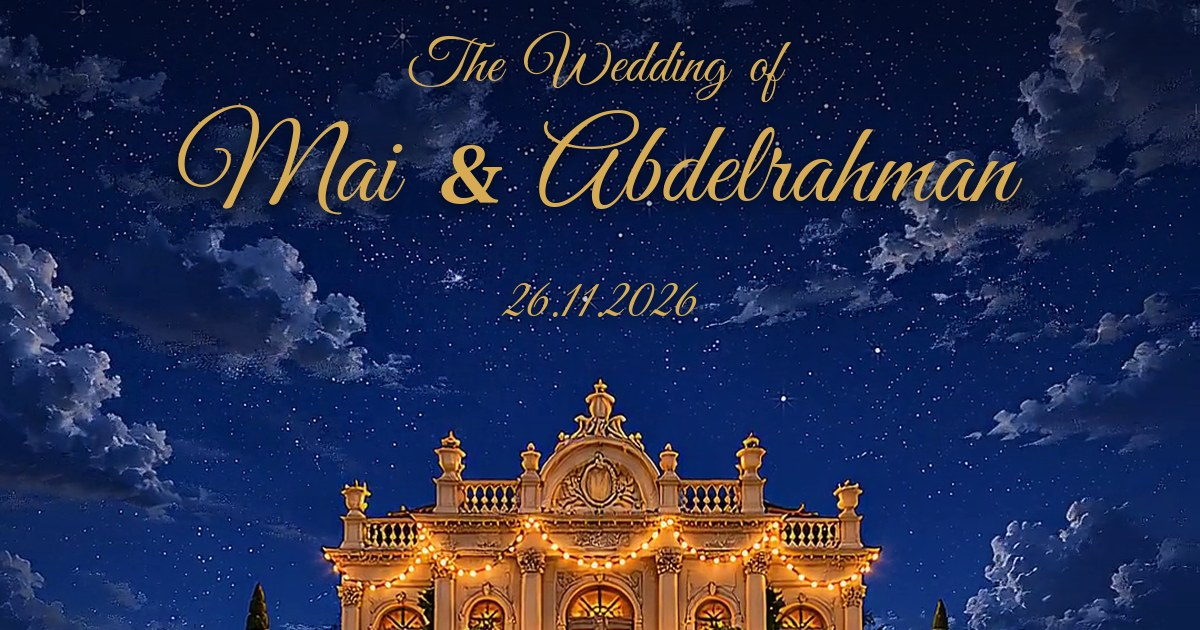
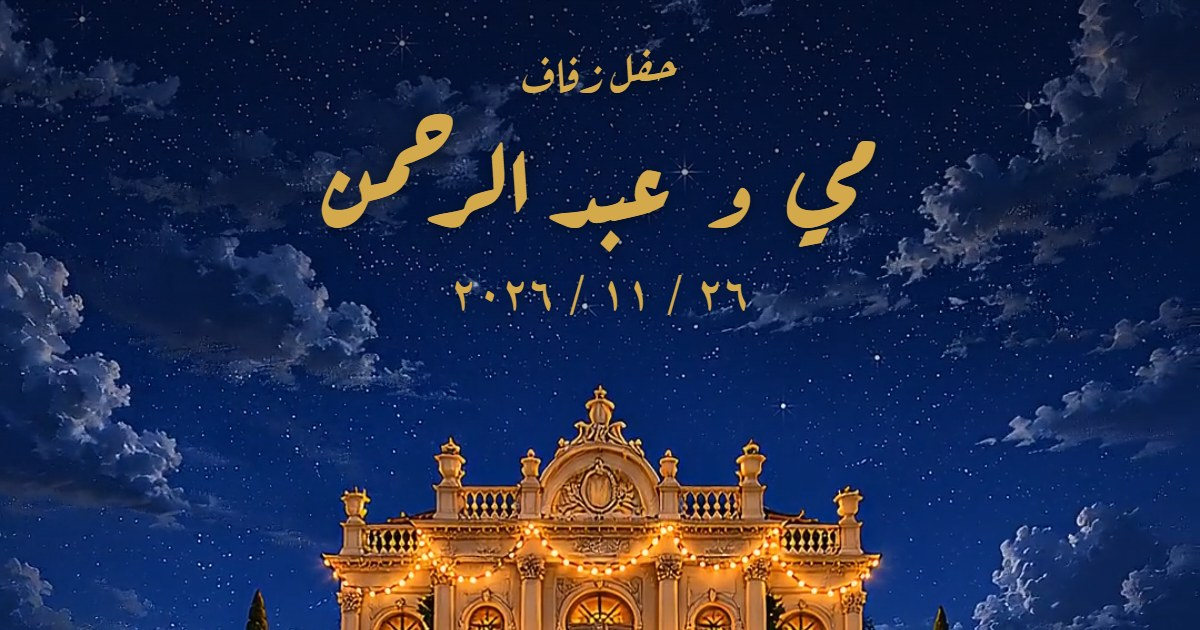
دعوة مي وعبد الرحمن (C7ZgURf) بقت عربي بالكامل بطلب المالك: الأسامي والخط المزخرف بخط الرقعة (Aref Ruqaa) الدهبي، العناوين El Messiri، الكلام Amiri، والأرقام عربي (التاريخ، العدّاد، البرنامج) — حكايتنا، احفظوا الموعد، باقي على ليلة العمر، برنامج الحفل، مكان الحفل (سي ستار — المكس، الإسكندرية)، تأكيد
Claude-Session: https://claude.ai/code/session_01WWr143PkEpXc8CSVh9AHnN

diff --git a/custom-invitations/C7ZgURf.html b/custom-invitations/C7ZgURf.html
@@ -1,14 +1,14 @@
 <!DOCTYPE html>
-<html lang="en" dir="ltr">
+<html lang="ar" dir="rtl">
 <head>
 <meta charset="utf-8">
 <meta name="viewport" content="width=device-width, initial-scale=1, viewport-fit=cover">
 <meta name="theme-color" content="#071733">
-<title>The Wedding of Mai &amp; Abdelrahman</title>
-<meta name="description" content="Thursday, 26 November 2026 · 7:30 PM · Sea Star, Alexandria">
+<title>زفاف مي و عبد الرحمن</title>
+<meta name="description" content="الخميس ٢٦ نوفمبر ٢٠٢٦ · السابعة والنصف مساءً · سي ستار — المكس، الإسكندرية">
 <link rel="preconnect" href="https://fonts.googleapis.com">
 <link rel="preconnect" href="https://fonts.gstatic.com" crossorigin>
-<link rel="stylesheet" href="https://fonts.googleapis.com/css2?family=Amiri&family=Cormorant+Garamond:ital,wght@0,400;0,500;0,600;1,400;1,500&family=Gelasio:ital,wght@1,500&family=Great+Vibes&family=Marcellus&family=Tajawal:wght@400;500&display=swap">
+<link rel="stylesheet" href="https://fonts.googleapis.com/css2?family=Amiri:wght@400;700&family=Aref+Ruqaa:wght@400;700&family=El+Messiri:wght@400;500;600;700&family=Tajawal:wght@400;500;700&display=swap">
 <link rel="preload" as="image" href="assets/open.jpg">
 <style>
 /* ============================================================
@@ -17,8 +17,9 @@
    ============================================================ */
 :root{
   --navy:#071733; --ink:#172957; --cream:#F5ECDD;
-  --serif:'Cormorant Garamond',Georgia,'Times New Roman',serif;
-  --script:'Great Vibes','Brush Script MT',cursive;
+  --serif:'Amiri','Times New Roman',serif;
+  --script:'Aref Ruqaa','Amiri',serif;
+  --head:'El Messiri','Amiri',sans-serif;
   --col:560px;
 }
 *{box-sizing:border-box}
@@ -300,6 +301,78 @@ button,input,textarea{font:inherit;color:inherit}
 @media (prefers-reduced-motion:reduce){
   *,*::before,*::after{animation-duration:.01ms!important;animation-iteration-count:1!important;transition-duration:.01ms!important}
 }
+
+/* ============================================================
+   النسخة العربية (بطلب المالك 2026-11-02): كل الكلام عربي.
+   - الأسامي والخط المزخرف: Aref Ruqaa (دهبي)
+   - العناوين: El Messiri — من غير تباعد حروف (التباعد بيقطّع الحروف العربي)
+   - الكلام: Amiri — ومفيش مائل (الخط العربي المائل شكله مكسور)
+   ============================================================ */
+body,body *{font-style:normal!important}
+.cap{font-family:var(--head);letter-spacing:0!important;text-indent:0!important}
+.tap{font-family:var(--head);font-size:17px;letter-spacing:0;text-indent:0}
+.ht{font-family:var(--script);line-height:1.5}
+.ht-of{font-size:clamp(30px,10cqw,72px);word-spacing:0}
+.ht-names{font-size:clamp(36px,15.5vw,112px);font-size:clamp(36px,15.5cqw,112px)}
+.ht-names .amp{margin:0 .28em;font-family:var(--script);font-size:.8em;transform:translateY(-.06em)}
+.ht-date{font-family:var(--serif);font-weight:700;letter-spacing:.04em;text-indent:0;font-size:clamp(22px,7cqw,52px)}
+.st-cap{font-size:21px;font-weight:600}
+.st-script{font-family:var(--script);font-size:clamp(34px,11cqw,50px);line-height:1.5;padding:2px 20px 6px}
+.st-body{font-size:20px;line-height:1.85;max-width:min(90%,330px)}
+.dt-cap{font-size:19px;font-weight:600}
+.dt-day{font-family:var(--serif);font-weight:700;font-size:100px;line-height:1.15}
+.dt-month{font-size:32px;font-weight:600}
+.dt-year{font-family:var(--serif);font-weight:700;font-size:34px;letter-spacing:.06em!important}
+.dt-when{font-size:18px;font-weight:600}
+.dt-when em{margin:0 .45em}
+.dt-msg{font-size:19px;line-height:1.75;letter-spacing:0;max-width:min(88%,260px)}
+.cd-cap{font-size:20px;font-weight:600}
+.cd-until{font-size:23px;line-height:1.5}
+.cd-ido{font-family:var(--script);font-size:54px;line-height:1.5;padding:0 20px 4px}
+.cd-num{font-family:var(--serif);font-weight:700;font-size:50px;line-height:1.1}
+.cd-lab{font-family:var(--head);font-size:15px;letter-spacing:0;text-indent:0;margin-top:6px}
+.cd-msg{font-size:18px;line-height:1.75}
+.tl-cap{font-size:21px;font-weight:600}
+.row .t{padding:4px 0 4px 30px;font-family:var(--head);font-size:17px;letter-spacing:0;font-weight:600}
+.row .e{padding-left:0;padding-right:30px}
+.row .e span{max-width:175px;font-family:var(--serif);font-size:21px;line-height:1.45;font-weight:700}
+.tl-msg{font-size:18px;line-height:1.75}
+.lc-cap{font-size:21px;font-weight:600}
+.lc-venue{font-family:var(--script);font-size:46px;line-height:1.45;letter-spacing:0;text-indent:0;font-weight:700}
+.lc-city{font-family:var(--head);font-size:21px;letter-spacing:0}
+.lc-addr{font-size:18px;line-height:1.75}
+.lc-btn{font-family:var(--head);font-size:17px;letter-spacing:0;text-indent:0;font-weight:600}
+.lc-msg{max-width:min(92%,330px);font-size:18px;line-height:1.75}
+.rs-h{font-family:var(--head);font-weight:600;font-size:32px}
+.rs-lab{letter-spacing:0;font-size:16px;font-weight:500;color:#6f6356}
+.rs-opt{font-size:16px;letter-spacing:0}
+.rs-send{font-size:17px;font-weight:700;letter-spacing:0}
+.rs-done h3{font-family:var(--head);letter-spacing:0;text-indent:0;font-size:24px}
+.rs-done p{font-size:19px}
+.ty-cap{font-size:22px}
+.ty-msg{font-size:22px;line-height:1.7}
+.ty-names{font-family:var(--script);font-size:44px;line-height:1.5;font-weight:700}
+.ty-date{font-family:var(--serif);font-weight:700;font-size:18px;letter-spacing:.08em!important}
+@media (max-width:390px){
+  .st-body{font-size:19px}
+  .dt-day{font-size:90px}
+  .dt-month{font-size:29px}
+  .cd-num{font-size:46px}
+  .cd-ido{font-size:50px}
+  .row .t{padding-right:0;padding-left:24px;font-size:16px}
+  .row .e{padding-left:0;padding-right:24px}
+  .row .e span{max-width:150px;font-size:19px}
+  .lc-venue{font-size:42px}
+  .ty-msg{font-size:21px}
+  .ty-names{font-size:40px}
+}
+@media (max-width:340px){
+  .dt-day{font-size:80px}
+  .row .t{padding-right:0;padding-left:16px;font-size:15px}
+  .row .e{padding-left:0;padding-right:16px}
+  .row .e span{font-size:17px}
+  .lc-venue{font-size:38px}
+}
 /* معاينة ثابتة للصور (?static) */
 .static .rv,.static .rw,.static .ht{opacity:1;animation:none!important}
 </style>
@@ -307,11 +380,11 @@ button,input,textarea{font:inherit;color:inherit}
 <body class="locked">
 
 <!-- ===== الغلاف: صورة الظرف، والضغط عليها يشغّل فيديو الفتح ===== -->
-<div class="intro" id="intro" role="button" tabindex="0" aria-label="Tap to open the invitation">
+<div class="intro" id="intro" role="button" tabindex="0" aria-label="اضغط لفتح الدعوة">
   <div class="intro-stage">
     <img src="assets/open.jpg" alt="">
     <video id="openVid" src="assets/open.mp4" muted playsinline webkit-playsinline preload="auto"></video>
-    <button class="tap" id="tap" type="button" tabindex="-1">TAP TO OPEN</button>
+    <button class="tap" id="tap" type="button" tabindex="-1">اضغط لفتح الدعوة</button>
   </div>
 </div>
 
@@ -320,18 +393,18 @@ button,input,textarea{font:inherit;color:inherit}
   <!-- القصر: فيديو بيتحول من نهار لليل + الأسماء -->
   <header class="hero">
     <video id="heroVid" src="assets/hero.mp4" muted playsinline webkit-playsinline preload="auto"></video>
-    <p class="ht ht-of">The Wedding of</p>
-    <h1 class="ht ht-names"><span>Mai</span><span class="amp">&amp;</span><span>Abdelrahman</span></h1>
-    <p class="ht ht-date">26.11.2026</p>
+    <p class="ht ht-of">حفل زفاف</p>
+    <h1 class="ht ht-names"><span>مي</span><span class="amp">و</span><span>عبد الرحمن</span></h1>
+    <p class="ht ht-date" dir="ltr">٢٦ / ١١ / ٢٠٢٦</p>
   </header>
 
   <!-- قصتنا -->
   <section class="sec navy story">
-    <div class="g g1 rv" style="--d:.1s"><span class="cap st-cap">OUR STORY</span></div>
+    <div class="g g1 rv" style="--d:.1s"><span class="cap st-cap">حكايتنا</span></div>
     <div class="orn st-orn"><span><i></i><b></b><i></i></span></div>
-    <div class="g g2 rv pop" style="--d:.35s"><span class="st-script">Written in the Stars</span></div>
-    <div class="g g3 rv" style="--d:.7s"><span class="st-body">Some stories begin with a moment.</span></div>
-    <div class="g g3 rv" style="--d:.9s"><span class="st-body">Ours began with a feeling that became forever.</span></div>
+    <div class="g g2 rv pop" style="--d:.35s"><span class="st-script">كُتبت في النجوم</span></div>
+    <div class="g g3 rv" style="--d:.7s"><span class="st-body">بعضُ الحكايات تبدأ بلحظة،</span></div>
+    <div class="g g3 rv" style="--d:.9s"><span class="st-body">وحكايتنا بدأت بشعورٍ صار عمرًا.</span></div>
     <div class="orn st-bot"><span><i></i><b></b><i></i></span></div>
   </section>
 
@@ -345,14 +418,14 @@ button,input,textarea{font:inherit;color:inherit}
       <i class="orb" style="right:20%;top:78%;--s:6.6s;--dl:.6s"></i>
     </div>
     <div class="inner">
-      <div class="g g1 rv" style="--d:.1s"><span class="cap dt-cap">SAVE THE DATE</span></div>
+      <div class="g g1 rv" style="--d:.1s"><span class="cap dt-cap">احفظوا الموعد</span></div>
       <div class="orn dt-orn"><span><i></i><b></b><i></i></span></div>
-      <div class="g g2 rv pop" style="--d:.3s"><span class="dt-day">26<i class="shim"></i></span></div>
-      <div class="g g3 rv" style="--d:.55s"><span class="cap dt-month">NOVEMBER</span></div>
+      <div class="g g2 rv pop" style="--d:.3s"><span class="dt-day">٢٦<i class="shim"></i></span></div>
+      <div class="g g3 rv" style="--d:.55s"><span class="cap dt-month">نوفمبر</span></div>
       <div class="dt-plus"><span></span></div>
-      <div class="g g4 rv" style="--d:.75s"><span class="cap dt-year">2026</span></div>
-      <div class="g g5 rv" style="--d:.9s"><span class="cap dt-when">THURSDAY<em>·</em>7:30 PM</span></div>
-      <div class="g g6 rv" style="--d:1.05s"><span class="dt-msg">A beautiful day to begin forever.</span></div>
+      <div class="g g4 rv" style="--d:.75s"><span class="cap dt-year">٢٠٢٦</span></div>
+      <div class="g g5 rv" style="--d:.9s"><span class="cap dt-when">الخميس<em>·</em>٧:٣٠ مساءً</span></div>
+      <div class="g g6 rv" style="--d:1.05s"><span class="dt-msg">يومٌ جميل نبدأ فيه العمر معًا.</span></div>
       <div class="orn dt-bot"><span><i></i><b></b><i></i></span></div>
     </div>
   </section>
@@ -368,17 +441,17 @@ button,input,textarea{font:inherit;color:inherit}
       <i class="pt" style="left:88%;--s:8.8s;--dl:2.9s"></i>
     </div>
     <div class="inner">
-      <div class="g g1 rv" style="--d:.1s"><span class="cap cd-cap">COUNTDOWN</span></div>
+      <div class="g g1 rv" style="--d:.1s"><span class="cap cd-cap">العدّ التنازلي</span></div>
       <div class="orn beat cd-orn"><span><i></i><b></b><i></i></span></div>
-      <div class="g g2 rv" style="--d:.3s"><span class="cd-until">Until We Say</span></div>
-      <div class="g g3 rv pop" style="--d:.45s"><span class="cd-ido">I DO</span></div>
+      <div class="g g2 rv" style="--d:.3s"><span class="cd-until">باقي على</span></div>
+      <div class="g g3 rv pop" style="--d:.45s"><span class="cd-ido">ليلة العمر</span></div>
       <div class="cd-grid">
-        <div class="cd-card rv" style="--d:.6s;--gd:0s"><span class="cd-num" data-u="d">00</span><span class="cd-lab">DAYS</span></div>
-        <div class="cd-card rv" style="--d:.72s;--gd:.4s"><span class="cd-num" data-u="h">00</span><span class="cd-lab">HOURS</span></div>
-        <div class="cd-card rv" style="--d:.84s;--gd:.8s"><span class="cd-num" data-u="m">00</span><span class="cd-lab">MINUTES</span></div>
-        <div class="cd-card rv" style="--d:.96s;--gd:1.2s"><span class="cd-num" data-u="s">00</span><span class="cd-lab">SECONDS</span></div>
+        <div class="cd-card rv" style="--d:.6s;--gd:0s"><span class="cd-num" data-u="d">٠٠</span><span class="cd-lab">يوم</span></div>
+        <div class="cd-card rv" style="--d:.72s;--gd:.4s"><span class="cd-num" data-u="h">٠٠</span><span class="cd-lab">ساعة</span></div>
+        <div class="cd-card rv" style="--d:.84s;--gd:.8s"><span class="cd-num" data-u="m">٠٠</span><span class="cd-lab">دقيقة</span></div>
+        <div class="cd-card rv" style="--d:.96s;--gd:1.2s"><span class="cd-num" data-u="s">٠٠</span><span class="cd-lab">ثانية</span></div>
       </div>
-      <div class="g g4 rv" style="--d:1.05s"><span class="cd-msg">Every second brings us closer to forever.</span></div>
+      <div class="g g4 rv" style="--d:1.05s"><span class="cd-msg">كل ثانية بتقرّبنا من أحلى ليلة.</span></div>
       <div class="orn beat cd-bot"><span><i></i><b></b><i></i></span></div>
     </div>
   </section>
@@ -386,56 +459,56 @@ button,input,textarea{font:inherit;color:inherit}
   <!-- برنامج الفرح -->
   <section class="sec cream tl">
     <div class="inner">
-      <div class="g g1 rv" style="--d:.1s"><span class="cap tl-cap">WEDDING TIMELINE</span></div>
+      <div class="g g1 rv" style="--d:.1s"><span class="cap tl-cap">برنامج الحفل</span></div>
       <div class="orn tl-orn"><span><i></i><b></b><i></i></span></div>
       <div class="track" id="track">
         <div class="tl-line"></div>
         <div class="tl-cap-pt s"></div>
         <div class="tl-cap-pt e"></div>
         <div class="star" id="star" aria-hidden="true"><svg viewBox="0 0 24 24"><path d="M12 1.8 14.6 8.2 21.5 8.8 16.2 13.2 17.9 20 12 16.4 6.1 20 7.8 13.2 2.5 8.8 9.4 8.2Z" fill="#F6D98F" stroke="#B78431" stroke-width="1.2" stroke-linejoin="round"/><circle cx="12" cy="11.2" r="2.1" fill="#FFF8DF"/></svg></div>
-        <div class="row rw"><span class="t">7:30 PM</span><span class="p"></span><span class="e"><span>Guest Arrival</span></span></div>
-        <div class="row rw"><span class="t">8:00 PM</span><span class="p"></span><span class="e"><span>Bride Entrance</span></span></div>
-        <div class="row rw"><span class="t">9:00 PM</span><span class="p"></span><span class="e"><span>Dinner</span></span></div>
-        <div class="row rw"><span class="t">10:30 PM</span><span class="p"></span><span class="e"><span>First Dance</span></span></div>
-        <div class="row rw"><span class="t">11:30 PM</span><span class="p"></span><span class="e"><span>Let the Celebration Begin</span></span></div>
+        <div class="row rw"><span class="t">٧:٣٠ مساءً</span><span class="p"></span><span class="e"><span>استقبال الضيوف</span></span></div>
+        <div class="row rw"><span class="t">٨:٠٠ مساءً</span><span class="p"></span><span class="e"><span>دخلة العروسين</span></span></div>
+        <div class="row rw"><span class="t">٩:٠٠ مساءً</span><span class="p"></span><span class="e"><span>العشاء</span></span></div>
+        <div class="row rw"><span class="t">١٠:٣٠ مساءً</span><span class="p"></span><span class="e"><span>الرقصة الأولى</span></span></div>
+        <div class="row rw"><span class="t">١١:٣٠ مساءً</span><span class="p"></span><span class="e"><span>وتبدأ الاحتفالات</span></span></div>
       </div>
-      <div class="g g2 rv" style="--d:.2s"><span class="tl-msg">A night to remember, a story to treasure forever.</span></div>
+      <div class="g g2 rv" style="--d:.2s"><span class="tl-msg">ليلةٌ لا تُنسى، وحكايةٌ نحفظها العمر كله.</span></div>
     </div>
   </section>
 
   <!-- المكان -->
   <section class="sec navy loc">
     <div class="inner">
-      <div class="g g1 rv" style="--d:.1s"><span class="cap lc-cap">LOCATION</span></div>
+      <div class="g g1 rv" style="--d:.1s"><span class="cap lc-cap">مكان الحفل</span></div>
       <div class="orn lc-orn"><span><i></i><b></b><i></i></span></div>
-      <div class="g g2 rv" style="--d:.25s"><span class="lc-venue">SEA STAR</span></div>
-      <div class="g g3 rv" style="--d:.38s"><span class="lc-city">El Max, Alexandria</span></div>
+      <div class="g g2 rv" style="--d:.25s"><span class="lc-venue">سي ستار</span></div>
+      <div class="g g3 rv" style="--d:.38s"><span class="lc-city">المكس، الإسكندرية</span></div>
       <div class="orn flat dot lc-div"><span><i></i><b></b><i></i></span></div>
-      <div class="g g4 rv" style="--d:.52s"><span class="lc-addr">A beautiful place for our unforgettable night.</span></div>
-      <div class="g g5 rv pop" style="--d:.66s"><a class="lc-btn" href="https://maps.app.goo.gl/PqRU6BXrYPoHW2b18" target="_blank" rel="noopener noreferrer"><span>OPEN LOCATION</span></a></div>
-      <div class="g g6 rv" style="--d:.85s"><span class="lc-msg">We can’t wait to celebrate this beautiful night with you.</span></div>
+      <div class="g g4 rv" style="--d:.52s"><span class="lc-addr">مكانٌ جميل لليلتنا اللي مش هتتنسي.</span></div>
+      <div class="g g5 rv pop" style="--d:.66s"><a class="lc-btn" href="https://maps.app.goo.gl/PqRU6BXrYPoHW2b18" target="_blank" rel="noopener noreferrer"><span>افتح الموقع على الخريطة</span></a></div>
+      <div class="g g6 rv" style="--d:.85s"><span class="lc-msg">مستنيينكم تشاركونا فرحتنا في الليلة الحلوة دي.</span></div>
     </div>
   </section>
 
   <!-- تأكيد الحضور -->
   <section class="sec cream rsvp" id="rsvp">
-    <h2 class="rs-h rv" style="--d:.1s">RSVP</h2>
+    <h2 class="rs-h rv" style="--d:.1s">تأكيد الحضور</h2>
     <div class="rs-card rv" style="--d:.25s" id="rsCard">
       <form id="rsForm" novalidate>
-        <label class="rs-lab" for="rsName">YOUR NAME</label>
+        <label class="rs-lab" for="rsName">الاسم</label>
         <input class="rs-in" id="rsName" type="text" autocomplete="name" maxlength="80" dir="auto">
-        <div class="rs-lab rs-q">WILL YOU BE ATTENDING OUR DAY?</div>
-        <label class="rs-opt"><span>YES</span><input type="radio" name="att" value="yes" checked><i></i></label>
-        <label class="rs-opt"><span>NO</span><input type="radio" name="att" value="no"><i></i></label>
-        <label class="rs-lab rs-m" for="rsMsg">WRITE YOUR CONGRATULATIONS</label>
+        <div class="rs-lab rs-q">هتشاركونا فرحتنا؟</div>
+        <label class="rs-opt"><span>أكيد، هحضر</span><input type="radio" name="att" value="yes" checked><i></i></label>
+        <label class="rs-opt"><span>معلش، مش هقدر</span><input type="radio" name="att" value="no"><i></i></label>
+        <label class="rs-lab rs-m" for="rsMsg">اكتب تهنئتك (اختياري)</label>
         <textarea class="rs-in rs-ta" id="rsMsg" maxlength="200" dir="auto"></textarea>
         <p class="rs-err" id="rsErr" role="alert"></p>
-        <button class="rs-send" id="rsSend" type="submit">SEND</button>
+        <button class="rs-send" id="rsSend" type="submit">إرسال</button>
       </form>
       <div class="rs-done">
         <span class="ok"><svg width="26" height="26" viewBox="0 0 24 24" fill="none" stroke="currentColor" stroke-width="1.6" stroke-linecap="round" stroke-linejoin="round"><path d="M5 12.5l4.2 4.2L19 7"/></svg></span>
-        <h3>THANK YOU</h3>
-        <p id="rsDoneMsg">Your reply has reached us with love.</p>
+        <h3>شكرًا ليك</h3>
+        <p id="rsDoneMsg">ردّك وصلنا بكل حب.</p>
       </div>
     </div>
   </section>
@@ -444,21 +517,21 @@ button,input,textarea{font:inherit;color:inherit}
   <section class="sec navy ty">
     <div class="inner">
       <div class="orn ty-orn"><span><i></i><b></b><i></i></span></div>
-      <div class="g g1 rv" style="--d:.08s"><span class="cap ty-cap">THANK YOU</span></div>
-      <div class="g g2 rv" style="--d:.22s"><span class="ty-msg">Thank you for being part of our special day.</span></div>
+      <div class="g g1 rv" style="--d:.08s"><span class="cap ty-cap">شكرًا من القلب</span></div>
+      <div class="g g2 rv" style="--d:.22s"><span class="ty-msg">شكرًا إنكم جزء من أحلى يوم في عمرنا.</span></div>
       <div class="heart"><span></span></div>
-      <div class="g g3 rv" style="--d:.38s"><span class="ty-names">Mai &amp; Abdelrahman</span></div>
-      <div class="g g4 rv" style="--d:.5s"><span class="cap ty-date">26 · 11 · 2026</span></div>
+      <div class="g g3 rv" style="--d:.38s"><span class="ty-names">مي و عبد الرحمن</span></div>
+      <div class="g g4 rv" style="--d:.5s"><span class="cap ty-date" dir="ltr">٢٦ / ١١ / ٢٠٢٦</span></div>
       <div class="orn flat dot ty-bot"><span><i></i><b></b><i></i></span></div>
     </div>
   </section>
 
 </main>
 
-<button class="fab fab-music" id="musicBtn" type="button" aria-label="Music">
+<button class="fab fab-music" id="musicBtn" type="button" aria-label="الموسيقى">
   <svg viewBox="0 0 24 24" aria-hidden="true"><path fill="currentColor" d="M12 3v10.55A4 4 0 1 0 14 17V7h4V3h-6z"/></svg>
 </button>
-<button class="fab fab-auto" id="autoBtn" type="button" aria-label="Auto scroll">
+<button class="fab fab-auto" id="autoBtn" type="button" aria-label="نزول تلقائي">
   <svg class="i-play" viewBox="0 0 24 24" aria-hidden="true"><path fill="currentColor" d="M8 5.2v13.6L18.8 12z"/></svg>
   <svg class="i-pause" viewBox="0 0 24 24" aria-hidden="true"><path fill="currentColor" d="M7 5h3.6v14H7zM13.4 5H17v14h-3.6z"/></svg>
 </button>
@@ -587,7 +660,8 @@ button,input,textarea{font:inherit;color:inherit}
   // ===== العدّاد — الخميس 26/11/2026 الساعة 7:30 مساءً بتوقيت القاهرة (UTC+2) =====
   var TARGET = Date.UTC(2026, 10, 26, 17, 30, 0);
   var cells = { d: $('[data-u=d]'), h: $('[data-u=h]'), m: $('[data-u=m]'), s: $('[data-u=s]') };
-  function two(n) { return (n < 10 ? '0' : '') + n; }
+  var AR_DIGITS = '٠١٢٣٤٥٦٧٨٩';
+  function two(n) { return ((n < 10 ? '0' : '') + n).replace(/\d/g, function (d) { return AR_DIGITS[d]; }); }
   function tick() {
     var s = Math.max(0, Math.floor((TARGET - Date.now()) / 1000));
     var v = { d: Math.floor(s / 86400), h: Math.floor((s % 86400) / 3600), m: Math.floor((s % 3600) / 60), s: s % 60 };
@@ -636,11 +710,11 @@ button,input,textarea{font:inherit;color:inherit}
     var name = $('#rsName').value.trim();
     var att = (form.querySelector('input[name=att]:checked') || {}).value;
     var note = $('#rsMsg').value.trim();
-    if (!name) { err.textContent = 'Please write your name'; $('#rsName').focus(); return; }
-    if (!att) { err.textContent = 'Please choose YES or NO'; return; }
+    if (!name) { err.textContent = 'من فضلك اكتب اسمك'; $('#rsName').focus(); return; }
+    if (!att) { err.textContent = 'من فضلك اختار هتحضر ولا لأ'; return; }
     err.textContent = '';
     function done() {
-      $('#rsDoneMsg').textContent = att === 'yes' ? 'We can’t wait to see you there.' : 'We will miss you — thank you for letting us know.';
+      $('#rsDoneMsg').textContent = att === 'yes' ? 'مستنيينك بكل حب.' : 'هتوحشنا — شكرًا إنك عرّفتنا.';
       card.classList.add('sent');
     }
     if (!RSVP_URL) { done(); return; }
@@ -653,7 +727,7 @@ button,input,textarea{font:inherit;color:inherit}
       if (r.ok) return done();
       throw new Error('send');
     }).catch(function () {
-      err.textContent = 'Couldn’t send — please try again in a moment';
+      err.textContent = 'مااتبعتش — جرّب تاني كمان شوية';
       send.disabled = false;
     });
   });

diff --git a/custom-invitations/C7ZgURf.js b/custom-invitations/C7ZgURf.js
@@ -41,8 +41,9 @@ module.exports = {
     width: 1200,
     height: 630,
     overrideImage: true,
-    title: 'The Wedding of Mai & Abdelrahman',
-    description: 'Thursday 26 November 2026 · 7:30 PM · Sea Star, Alexandria',
+    // عربي بطلب المالك (2026-11-02) — الدعوة كلها بقت عربي
+    title: 'دعوة زفاف مي و عبد الرحمن',
+    description: 'الخميس ٢٦ نوفمبر ٢٠٢٦ · السابعة والنصف مساءً · سي ستار — المكس، الإسكندرية',
   },
 
   // render لازم يبقى موجود عشان transform يشتغل (utils/customInvitations.js)
